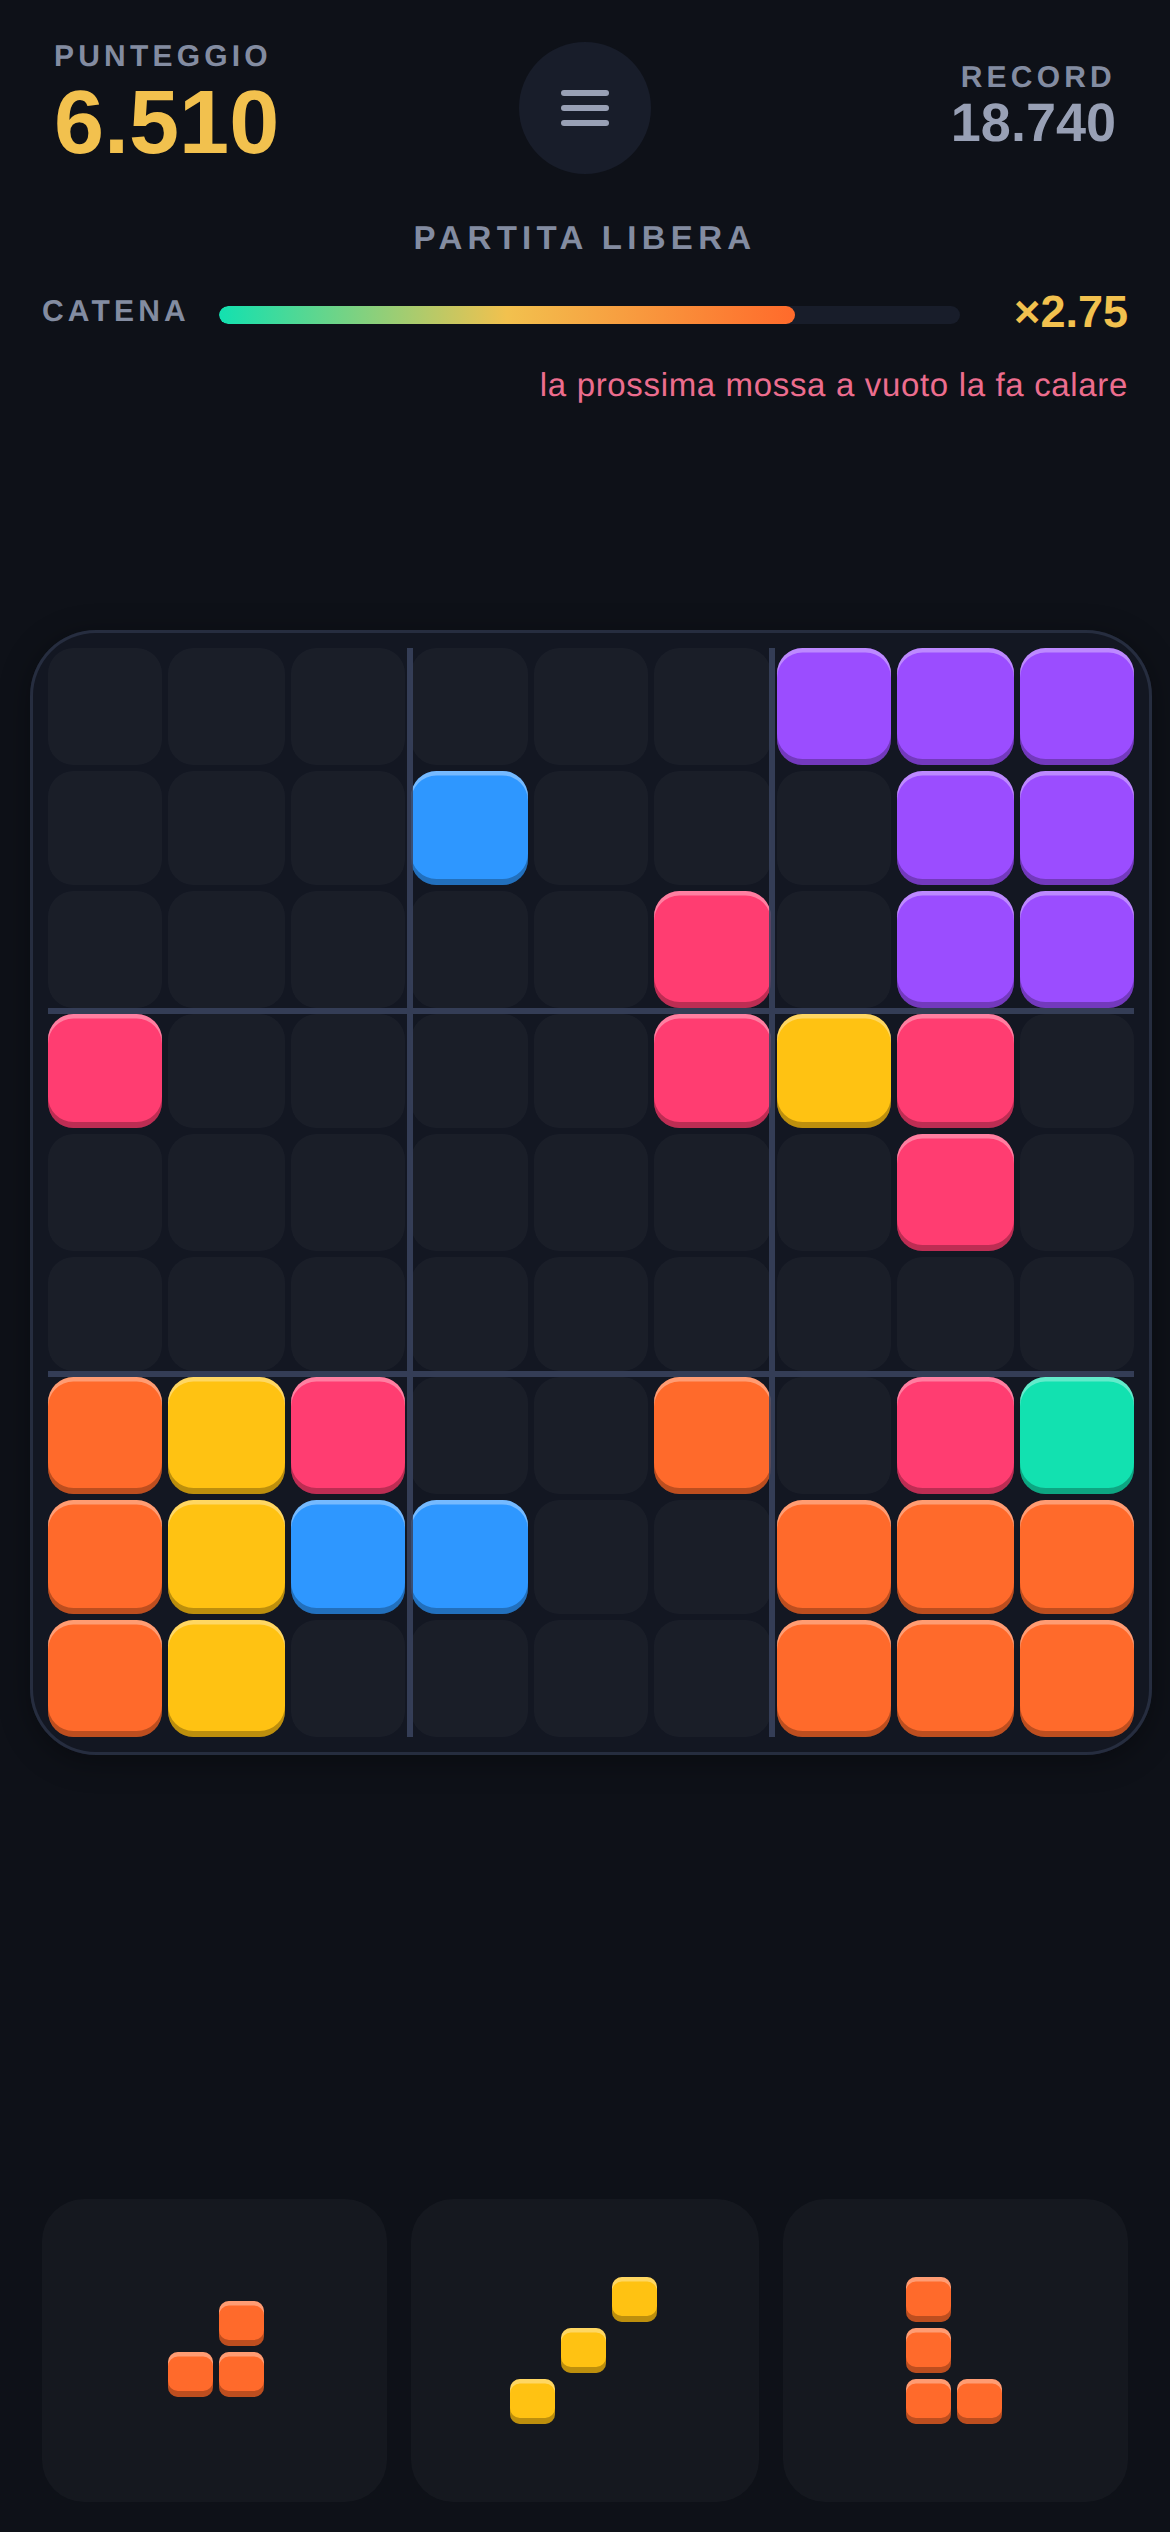
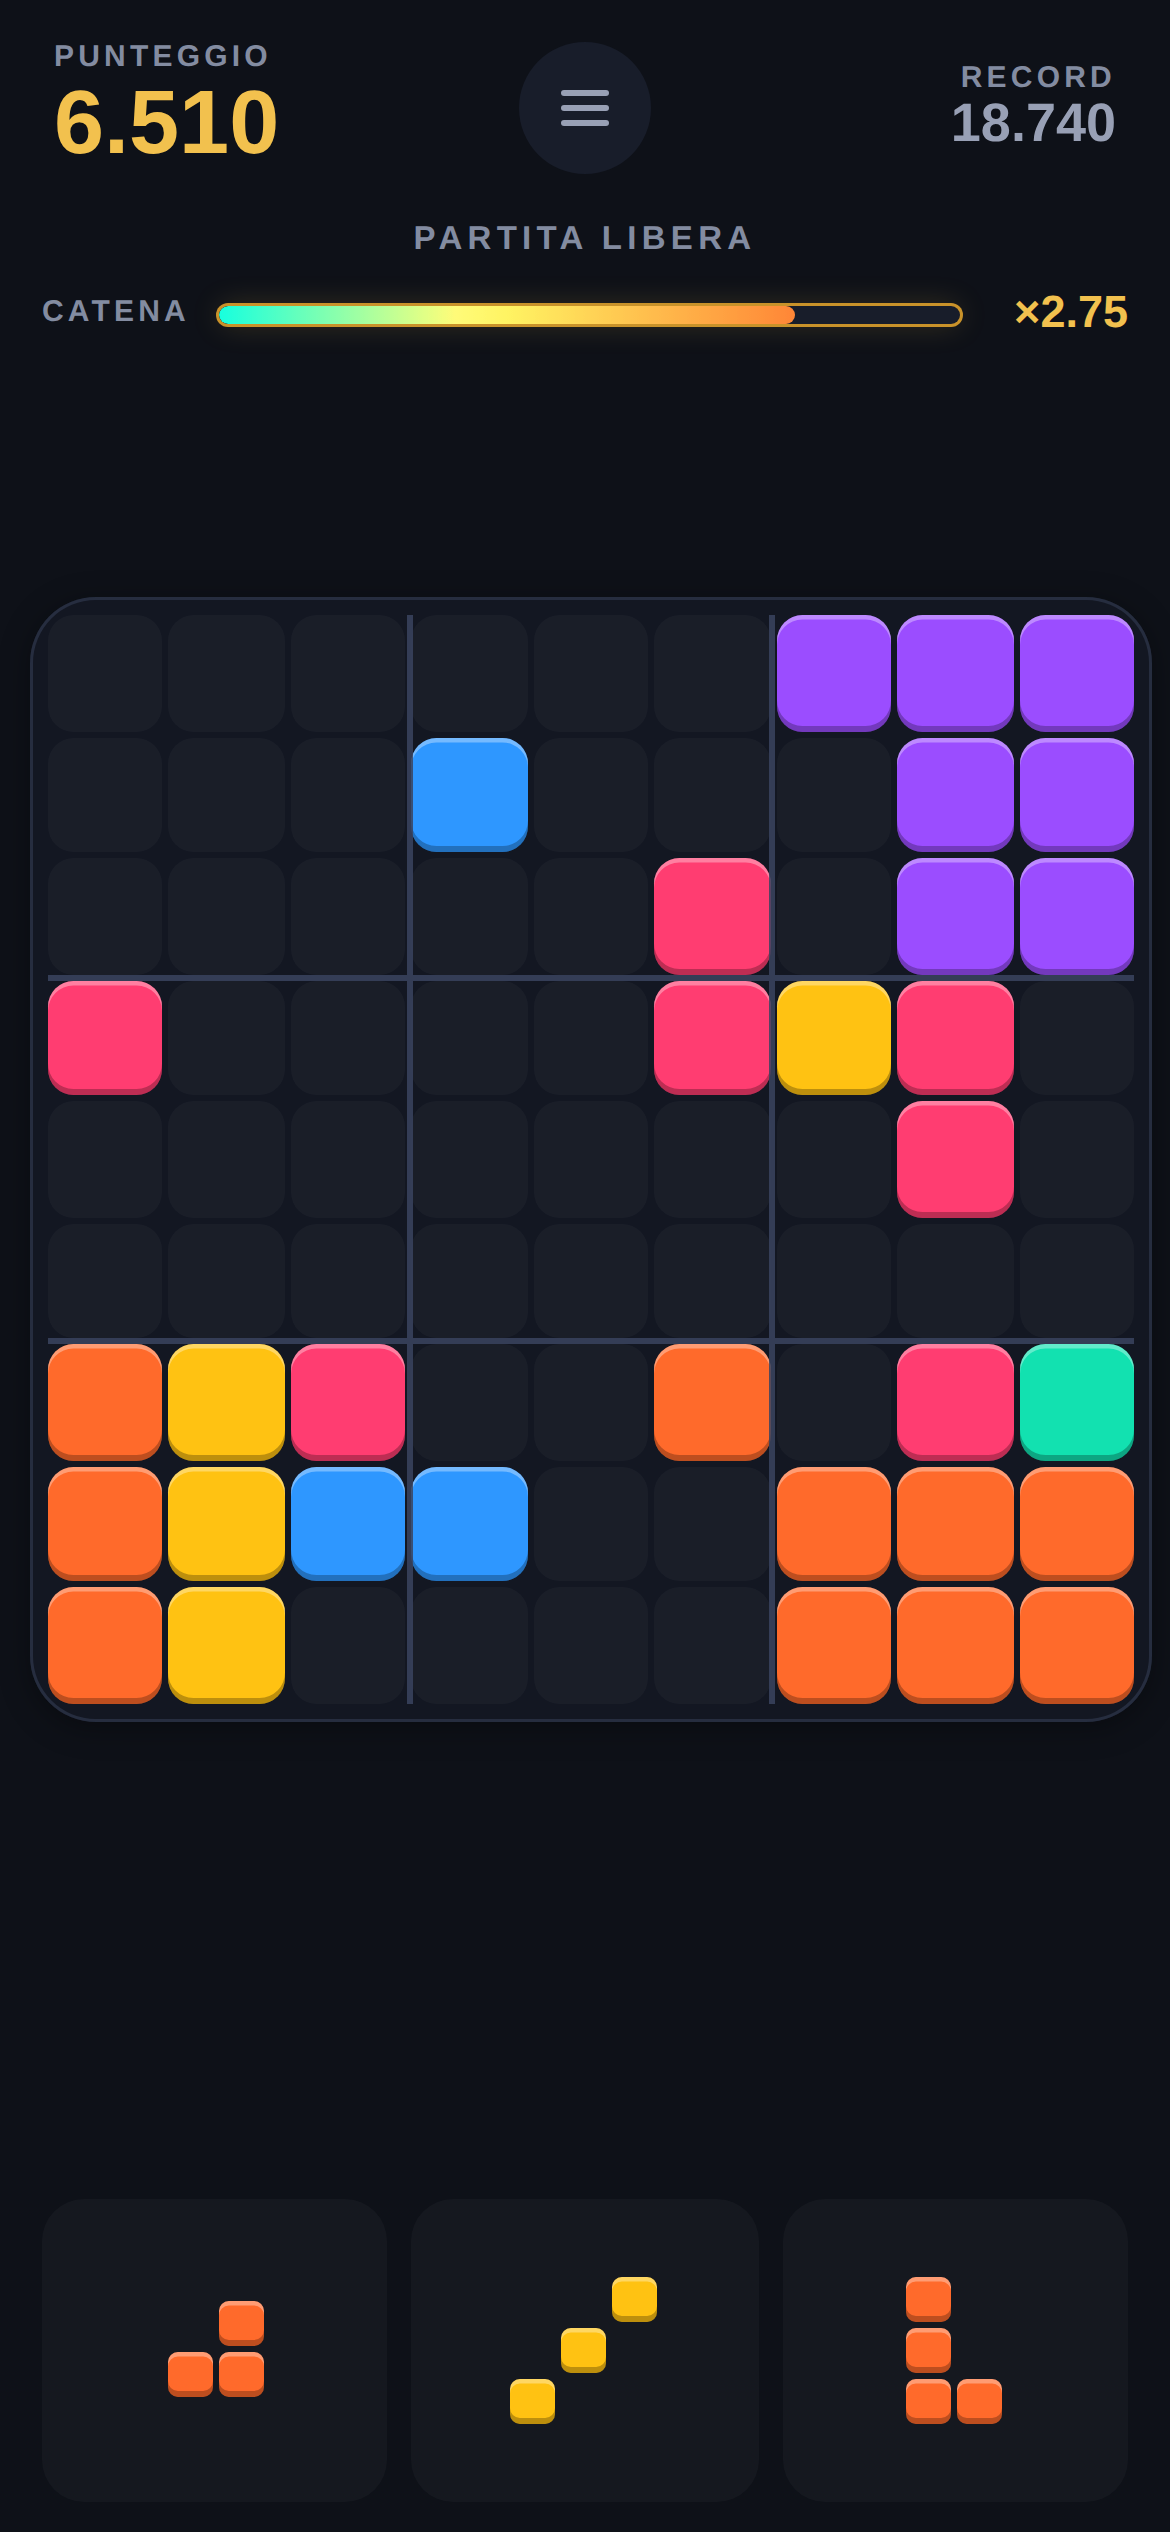
1.9.3: l'avviso della Catena lo dice la barra, e il gate impara a distinguere
IL MESSAGGIO ROSSO. Segnalato da chi ci gioca: "bruttino e non armonioso
con il resto della grafica". Aveva ragione, e il motivo e' preciso: quel
rosso e' --pl-danger, lo stesso colore del pulsante che cancella i dati del
giocatore. Diceva "stai per perdere qualcosa di grave" per un
moltiplicatore che scende di uno, e ignorava il linguaggio di colore della
Catena, che e' verde-arancio.

Adesso l'avviso sta dove sta gia' l'informazione: la barra prende un anello
del colore della Catena e il riempimento respira. Nessun rosso, nessuna
riga in piu'. Il respiro si spegne per chi ha chiesto meno movimento, ma lo
stato resta visibile.

IL TESTO RESTA PER CHI NON VEDE LO SCHERMO. Toglierlo dalla vista e' una
scelta grafica; toglierlo dall'annuncio vorrebbe dire che un giocatore
cieco perde l'avviso e basta, perche' una barra che pulsa non la sente
nessuno. Verificato giocando fino a quello stato: presente, role="status",
largo un pixel.

Misurato prima di intervenire: l'avviso faceva crescere la riga della
Catena di 22px ma NON rimpiccioliva la plancia, 384px con e senza. Era un
problema di armonia, non di spazio.

IL GATE ORA DISTINGUE FRA CHI DECIDE E CHI DISEGNA. La corsia veloce
saltava i cento livelli solo se nessun file "che tocca il gioco" era
cambiato, e in quell'elenco c'era tutto src/styles/. Un anello attorno alla
barra costava un'ora di controlli quanto una riscrittura della plancia.
Segnalato tre volte da chi usa questo progetto, e aveva ragione tutte e
tre.
[…]

diff --git a/src/ui/Hud.jsx b/src/ui/Hud.jsx
@@ -57,7 +57,7 @@ export function BarraCatena({ livello, digiuno = 0, t }) {
     <div className="pl-catena">
       <span className="pl-hud__etichetta">{t('hud.catena')}</span>
       <div
-        className="pl-catena__barra"
+        className={`pl-catena__barra ${ultimaChiamata ? 'pl-catena__barra--ultima' : ''}`}
         role="progressbar"
         aria-valuemin={0}
         aria-valuemax={CHAIN_MAX}
@@ -73,8 +73,18 @@ export function BarraCatena({ livello, digiuno = 0, t }) {
       <span className={`pl-catena__valore ${attiva ? 'pl-catena__valore--attiva' : ''}`}>
         &times;{moltiplicatore.toFixed(2)}
       </span>
+      {/* L'AVVISO E' SULLA BARRA, NON SCRITTO. Era una riga di testo rosso sotto la
+          barra, e il rosso in questa interfaccia e' il colore di cio' che cancella i
+          dati: diceva "stai per perdere qualcosa di grave" per un moltiplicatore che
+          scende di uno. Adesso lo dice la barra stessa, con il suo colore e un respiro.
+
+          MA RESTA SCRITTO PER CHI NON VEDE LO SCHERMO. Toglierlo dalla vista e' una
+          scelta grafica; toglierlo anche dall'annuncio vorrebbe dire che un giocatore
+          cieco perde l'avviso e basta, perche' una barra che pulsa non la sente
+          nessuno. Il testo e' lo stesso di prima, in una regione che i lettori di
+          schermo leggono e gli occhi no. */}
       {ultimaChiamata && (
-        <span className="pl-catena__respiro" role="status">{t('hud.respiroFinito')}</span>
+        <span className="pl-sr" role="status">{t('hud.respiroFinito')}</span>
       )}
     </div>
   );

diff --git a/src/styles/app.css b/src/styles/app.css
@@ -1437,12 +1437,26 @@ button {
 
 /* Ultima chiamata della Catena: il momento in cui il giocatore sta per perdere il
    moltiplicatore. Va sulla riga sotto, allineato al valore, senza mai coprirlo. */
-.pl-catena__respiro {
-  flex-basis: 100%;
-  text-align: right;
-  font-size: 11px;
-  letter-spacing: 0.02em;
-  color: var(--pl-danger);
+/* L'ULTIMA CHIAMATA DELLA CATENA, detta dalla barra.
+   Un anello del colore della Catena e un respiro lento sul riempimento: il segnale sta
+   dove sta gia' l'informazione, invece di aggiungere una riga di testo rosso sotto.
+   Il respiro serve perche' senza parole un contorno fermo non lo nota nessuno. */
+.pl-catena__barra--ultima {
+  box-shadow: 0 0 0 1px var(--pl-brand-deep), 0 0 10px rgba(242, 193, 78, 0.22);
+}
+.pl-catena__barra--ultima .pl-catena__riempimento {
+  animation: pl-catena-avviso 1.5s ease-in-out infinite;
+}
+@keyframes pl-catena-avviso {
+  0%, 100% { filter: brightness(1); }
+  50%      { filter: brightness(1.65); }
+}
+@media (prefers-reduced-motion: reduce) {
+  /* Niente respiro, ma lo stato deve restare visibile: il riempimento resta acceso. */
+  .pl-catena__barra--ultima .pl-catena__riempimento {
+    animation: none;
+    filter: brightness(1.4);
+  }
 }
 
 /* --------------------------------------------------- apertura di un Quadro --- */

diff --git a/tests/durate.test.js b/tests/durate.test.js
@@ -59,7 +59,7 @@ describe('allineamento fra durate JavaScript e CSS', () => {
     // Le uniche eccezioni ammesse sono i cicli continui di "vita" (respiri, pulsazioni):
     // non sono effetti di mossa, non hanno controparte in JavaScript e ognuno di essi
     // deve avere il proprio interruttore sotto prefers-reduced-motion.
-    const CICLI_CONTINUI = ['pl-pulsa', 'pl-bomba-respira', 'pl-plinto-respira'];
+    const CICLI_CONTINUI = ['pl-pulsa', 'pl-bomba-respira', 'pl-plinto-respira', 'pl-catena-avviso'];
 
     expect(letterali.filter((l) => !CICLI_CONTINUI.includes(l.nome))).toEqual([]);
 

diff --git a/docs/CHANGELOG.md b/docs/CHANGELOG.md
@@ -7,6 +7,33 @@ Tutte le modifiche degne di nota a PLINTO. Il formato segue una versione semplif
 La versione è dichiarata in un solo posto — il campo `version` di `package.json` — e
 `vite.config.js` la inietta nel bundle come `__APP_VERSION__`.
 
+## [1.9.3] — 11 settembre 2026
+
+### Cambiato
+
+**L'avviso della Catena lo dice la barra, non una riga di testo rosso.**
+Segnalato da chi ci gioca: «il messaggio rosso e' bruttino e non armonioso con il resto
+della grafica». Aveva ragione, e il motivo e' preciso: quel rosso e' `--pl-danger`, lo
+stesso colore del pulsante che cancella i dati del giocatore. Diceva «stai per perdere
+qualcosa di grave» per un moltiplicatore che scende di uno, e ignorava il linguaggio di
+colore della Catena, che e' verde-arancio.
+
+Adesso l'avviso sta dove sta gia' l'informazione: la barra prende un anello del colore
+della Catena e il riempimento respira lentamente. Nessun rosso, nessuna riga in piu'.
+
+**Il testo resta per chi non vede lo schermo.** Toglierlo dalla vista e' una scelta
+grafica; toglierlo anche dall'annuncio vorrebbe dire che un giocatore cieco perde
+l'avviso e basta, perche' una barra che pulsa non la sente nessuno. La frase e' la stessa
+di prima, in una regione che i lettori di schermo leggono e gli occhi no: verificata
+giocando fino a quello stato, presente con `role="status"` e larga un pixel.
+
+**Il respiro si spegne** per chi ha chiesto meno movimento al sistema, ma lo stato resta
+visibile: il riempimento rimane acceso invece di tornare normale.
+
+Misurato prima di intervenire: l'avviso faceva crescere la riga della Catena di 22 pixel
+ma **non** rimpiccioliva la plancia, che restava a 384 pixel con e senza. Era un problema
+di armonia, non di spazio, e valeva la pena saperlo prima di decidere dove metterlo.
+
 ## [1.9.2] — 11 settembre 2026
 
 ### Corretto
